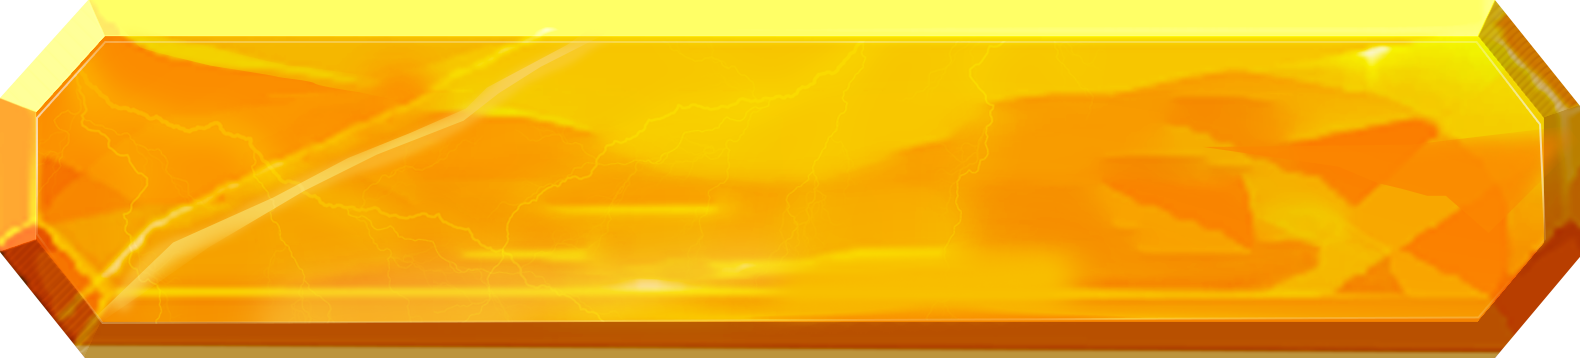
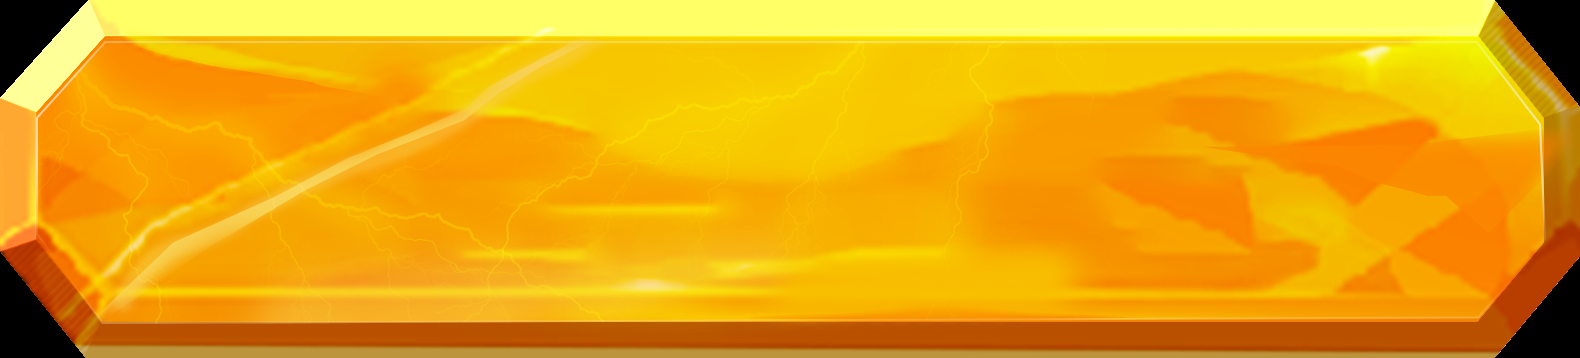
Perfeccionar estética de GUI
- Recortar borde de la imagen de los botones
- Cambiar tamaño y posición de botones
- Eliminar transparencia del texto del título del juego

diff --git a/src/settings/settings.py b/src/settings/settings.py
@@ -72,19 +72,19 @@ HANSHAND_FONT = 'resources/fonts/hanshand.ttf'
 # Button settings
 BUTTON_IMAGE = 'resources/images/gold_button.png'
 
-BUTTON_WIDTH = 352
-BUTTON_HEIGHT = 80
+BUTTON_WIDTH = 400
+BUTTON_HEIGHT = 90
 BUTTON_SIZE = (BUTTON_WIDTH, BUTTON_HEIGHT)
 
-BUTTON_SEP_X = 70
-BUTTON_SEP_Y = 44
+BUTTON_SEP_X = 80
+BUTTON_SEP_Y = 45
 
 # Main menu layout
 MAIN_MENU_Y0 = HEIGHT/2
 MAIN_MENU_LAYOUT = (2, 3)
 
 # Other menus layout
-OTHER_MENU_Y0 = HEIGHT*4/10
+OTHER_MENU_Y0 = HEIGHT*38/100
 
 PAUSE_MENU_LAYOUT = (1, 4)
 OPTIONS_MENU_LAYOUT = (1, 1)

diff --git a/src/scenes/scnMenu.py b/src/scenes/scnMenu.py
@@ -70,7 +70,7 @@ class TextHecatomb(CenteredTextGUI):
     def __init__(self, screen):
         font = pg.font.Font(HANSHAND_FONT, 160)
         pos = (WIDTH/2, HEIGHT*3/10)
-        CenteredTextGUI.__init__(self, screen, font, MAROON, 'HECATOMB', pos, 192)
+        CenteredTextGUI.__init__(self, screen, font, MAROON, 'HECATOMB', pos)
 
     def action(self):
         pass

diff --git a/src/scenes/scnIntro.py b/src/scenes/scnIntro.py
@@ -34,7 +34,6 @@ class Intro(Scene):
         # Dibujamos título del juego
         font = pg.font.Font(HANSHAND_FONT, 224)
         text = font.render('HECATOMB', True, MAROON)
-        text.set_alpha(192)
         textRect = text.get_rect(center=(WIDTH/2, HEIGHT/2))
         screen.blit(text, textRect)
 
